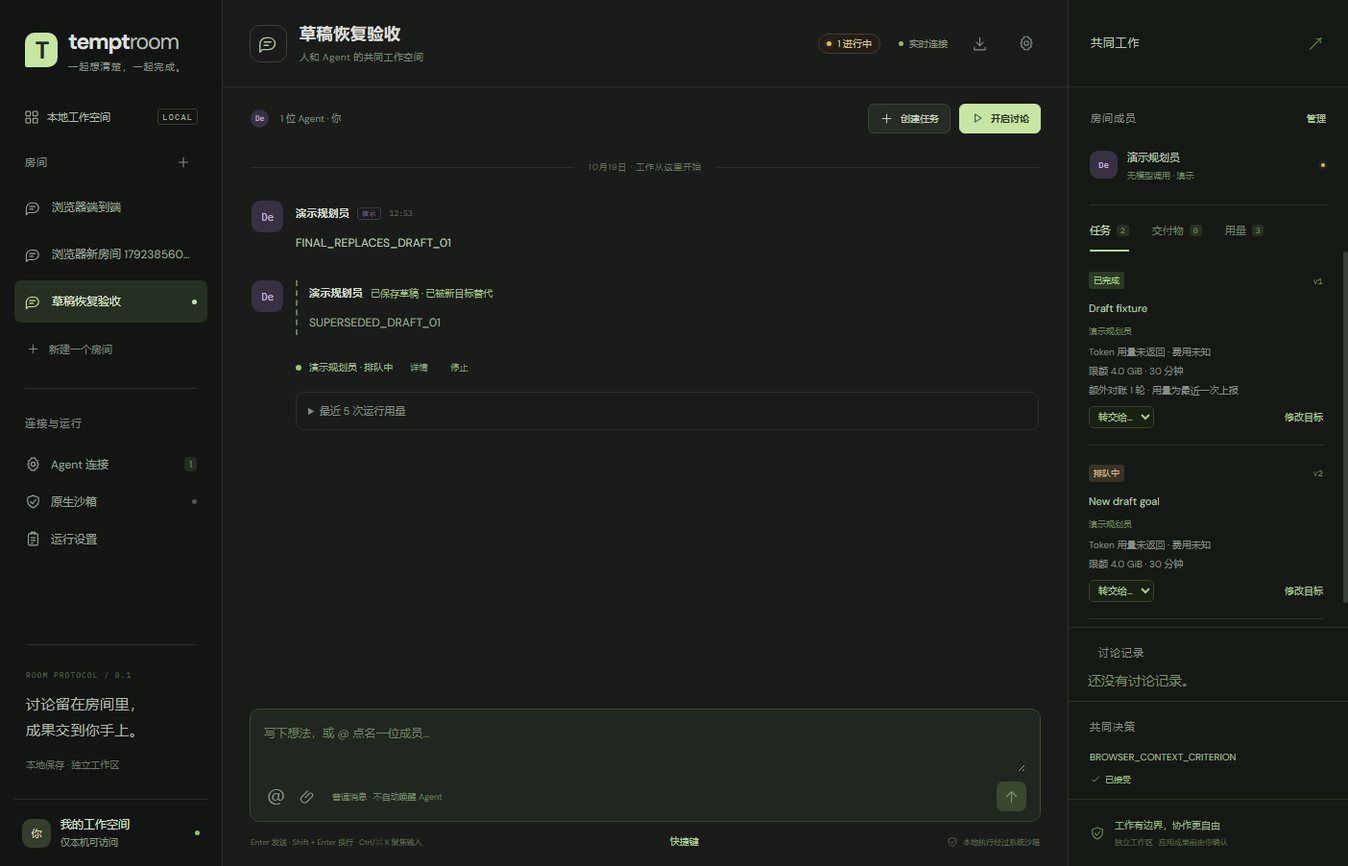
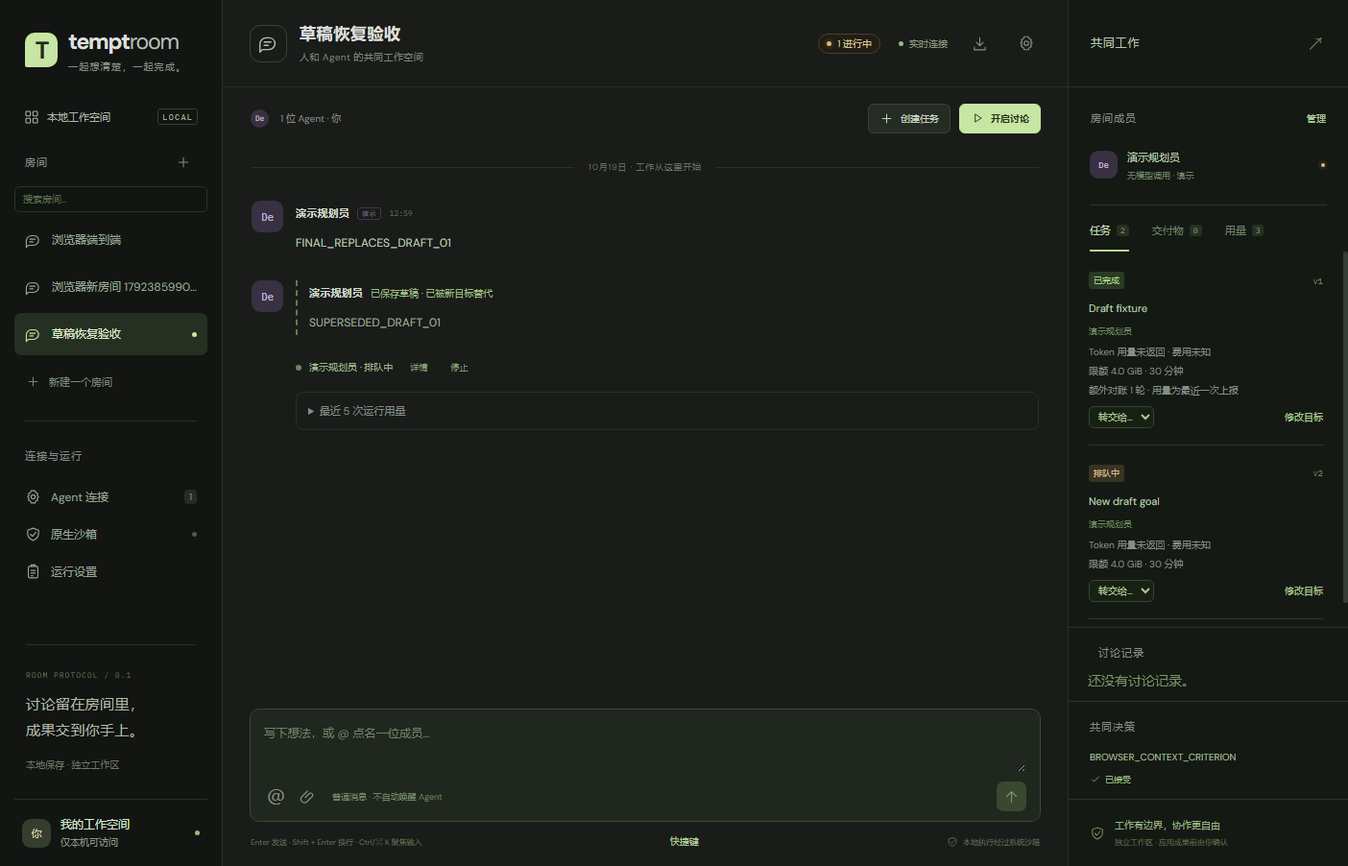
feat: add sidebar room search filter

Changed region(s): [[0.0, 0.2173, 0.1531, 0.6829]]

diff --git a/apps/web/src/main.tsx b/apps/web/src/main.tsx
@@ -43,6 +43,7 @@ function App(){
  const [runDetailId,setRunDetailId]=useState<string>();
  const [discussionDetailId,setDiscussionDetailId]=useState<string>();
  const [helpOpen,setHelpOpen]=useState(false);
+ const [roomQuery,setRoomQuery]=useState('');
  const [streaming,setStreaming]=useState<Record<string,DraftStream>>({}),[sandbox,setSandbox]=useState<Diagnostic>(),[probing,setProbing]=useState(false);
  const messagesEnd=useRef<HTMLDivElement>(null),fileInput=useRef<HTMLInputElement>(null),textarea=useRef<HTMLTextAreaElement>(null),generation=useRef(0),pendingSend=useRef<{body:string;id:string}|undefined>(undefined);
  const notify=useCallback((message:string)=>{setNotice(message);},[]);
@@ -65,6 +66,7 @@ function App(){
  const activeRuns=runs.filter(r=>!terminalStates.has(r.status)),discussion=snapshot?.discussions.find(d=>d.status==='active');
   const runDetail=runs.find(item=>item.id===runDetailId);
   const discussions=snapshot?.discussions??[],discussionDetail=discussions.find(item=>item.id===discussionDetailId);
+  const visibleRooms=rooms.filter(room=>room.name.toLowerCase().includes(roomQuery.trim().toLowerCase()));
   useEffect(()=>{if(!roomId)return;const url=new URL(location.href);url.searchParams.set('room',roomId);history.replaceState(null,'',url.toString());},[roomId]);
   useEffect(()=>{const prefix=activeRuns.length?'('+activeRuns.length+') ':'';document.title=snapshot?.room.name?(prefix+snapshot.room.name+' · Tempt Room'):'Tempt Room';},[snapshot?.room.name,activeRuns.length]);
  useEffect(()=>{const handler=(event:KeyboardEvent)=>{if((event.ctrlKey||event.metaKey)&&event.key.toLowerCase()==='k'){event.preventDefault();textarea.current?.focus();}if(event.key==='Escape')setShowMentions(false);if((event.ctrlKey||event.metaKey)&&event.key==='/'){event.preventDefault();setHelpOpen(true);}const target=event.target as HTMLElement|undefined;if(event.key==='?'&&!(target&&['INPUT','TEXTAREA','SELECT'].includes(target.tagName)))setHelpOpen(true);};window.addEventListener('keydown',handler);return()=>window.removeEventListener('keydown',handler);},[]);
@@ -86,8 +88,8 @@ function App(){
   <aside className="sidebar">
    <a className="brand" href="/" aria-label="Tempt Room"><span className="brand-mark">T</span><span>tempt<span className="brand-light">room</span><small>一起想清楚，一起完成。</small></span></a>
    <div className="workspace-label"><Icon name="grid" size={16}/><span>本地工作空间</span><span className="local-tag">LOCAL</span></div>
-   <div className="section-heading"><span>房间</span><button className="icon-button" aria-label="创建房间" onClick={()=>setDialog('room')}><Icon name="plus" size={16}/></button></div>
-   <nav className="room-list" aria-label="房间">{rooms.map(room=><button key={room.id} className={`room-link ${room.id===roomId?'selected':''}`} onClick={()=>setRoomId(room.id)}><Icon name="chat" size={17}/><span>{room.name}</span>{room.id===roomId&&<span className="room-indicator"/>}</button>)}</nav>
+   <div className="section-heading"><span>房间</span><button className="icon-button" aria-label="创建房间" onClick={()=>setDialog('room')}><Icon name="plus" size={16}/></button></div><input className="room-search" value={roomQuery} onChange={event=>setRoomQuery(event.target.value)} placeholder="搜索房间…" aria-label="搜索房间"/>
+   <nav className="room-list" aria-label="房间">{visibleRooms.map(room=><button key={room.id} className={`room-link ${room.id===roomId?'selected':''}`} onClick={()=>setRoomId(room.id)}><Icon name="chat" size={17}/><span>{room.name}</span>{room.id===roomId&&<span className="room-indicator"/>}</button>)}{!visibleRooms.length&&<p className="room-search-empty">没有匹配的房间</p>}</nav>
    <button className="new-room" onClick={()=>setDialog('room')}><Icon name="plus" size={15}/> 新建一个房间</button>
    <div className="sidebar-divider"/>
    <div className="section-heading"><span>连接与运行</span></div>

diff --git a/scripts/browser-e2e.ts b/scripts/browser-e2e.ts
@@ -188,6 +188,13 @@ try {
     await evaluate("(()=>{const button=[...document.querySelectorAll('dialog.modal button')].find(item=>(item.textContent??'').trim()==='知道了');if(button)button.click();return !!button;})()");
     await waitFor('关闭快捷键帮助', async () => !(await bodyText()).includes('打开本帮助'), 10000);
     step('shortcut-help');
+    const searchSet = await evaluate("(()=>{const input=document.querySelector('.room-search');if(!input)return false;const setter=Object.getOwnPropertyDescriptor(HTMLInputElement.prototype,'value').set;setter.call(input,'NoSuchRoomQuery');input.dispatchEvent(new Event('input',{bubbles:true}));return true;})()");
+    if (!searchSet) fail('找不到房间搜索框');
+    await waitFor('房间搜索过滤', async () => { const count = await evaluate("document.querySelectorAll('.room-list .room-link').length"); return count === 0 && (await bodyText()).includes('没有匹配的房间'); }, 10000);
+    await evaluate("(()=>{const input=document.querySelector('.room-search');if(!input)return false;const setter=Object.getOwnPropertyDescriptor(HTMLInputElement.prototype,'value').set;setter.call(input,'');input.dispatchEvent(new Event('input',{bubbles:true}));return true;})()");
+    await waitFor('房间搜索清空', async () => { const count = await evaluate("document.querySelectorAll('.room-list .room-link').length"); return count > 0; }, 10000);
+    step('room-search');
+
 
 
     const titleBefore = await waitFor('房间标题', async () => { const title = String(await evaluate("document.querySelector('.room-title h1')?.textContent?.trim() ?? ''")); return title && title !== '正在打开房间' ? title : undefined; }, 15000);

diff --git a/apps/web/src/style.css b/apps/web/src/style.css
@@ -98,3 +98,8 @@
 .shortcut-list>div{display:flex;align-items:center;gap:8px;font-size:11px;color:#c1d0b5}
 .shortcut-list kbd{font-family:'IBM Plex Mono',Consolas,monospace;font-size:9px;border:1px solid #3d4a35;border-radius:4px;padding:3px 6px;background:#1a2117;color:#d5e4c9;box-shadow:0 1px 0 #0e120c}
 .shortcut-list span{color:#93a487}
+/* Sidebar room search. */
+.room-search{width:100%;margin:0 0 7px;background:#101510;border:1px solid #2b3428;border-radius:5px;padding:6px 8px;color:#c2d0b8;font-size:10px}
+.room-search::placeholder{color:#5d6c54}
+.room-search:focus{border-color:#52683f;outline:none}
+.room-search-empty{font-size:9px;color:#6e7c64;padding:6px 8px}

diff --git a/docs/ACCEPTANCE.md b/docs/ACCEPTANCE.md
@@ -123,11 +123,12 @@ T03 已完成重启后的真实复测：当前 Codex 会话以外部成员接入
 - 新增讨论 quorum：`discussion.start` 可选每轮最少成功响应（默认全员）；达到 quorum 即推进并记录缺席成员，未达则停止；UI 显示 Quorum/缺席并可在创建表单设置。`tests/discussion-quorum.test.ts` 2 项，测试总数 200/200。
 - 新增受限沙箱聊天自动重试：默认关闭，仅对无任务/无讨论、无工具操作与 artifact、timeout/network/provider 失败的 sandbox chat 运行重试，最多 3 次；`tests/auto-retry.test.ts` 1 项，测试总数 220/220。
 - 新增单成员每分钟运行上限：`maxAgentRunsPerMinute`（默认 30）入队前限流，超限 429 原子失败；`tests/rate-limit.test.ts` 1 项，测试总数 220/220。
+- 新增侧边栏房间搜索：按名称即时过滤并在无匹配时显示空态；浏览器 E2E `room-search`，全量 43/43。
 - 新增快捷键帮助弹窗（Ctrl/⌘+/、?、底部按钮打开），列出 Enter/Shift+Enter/Ctrl+K/Esc 等操作并说明不绕过权限/预算；浏览器 E2E `shortcut-help`，全量 42/42。
 - 新增双连接并发写入门禁：两个 SQLite 连接交错写入 40 条消息，验证快照一致、事件连续、任意水位重建字节一致；`tests/concurrency-conflict.test.ts` 1 项，测试总数 218/218。
 - 新增 Agent 调度权重：`AgentDescriptor.schedulerWeight`（0.1–10，默认 1）参与加权公平排序，Agent 设置表单可配置；`tests/fair-scheduler.test.ts` 3 项，测试总数 217/217。
 - 新增种子化随机 seq 故障注入：40 条随机命令后在 30 个水位重建，投影字节与房间游标保持一致；`npm run test:faults` 已加入 CI 配置，测试总数 216/216。
-- 新增公平性压力测试与移动端布局：20 Agent × 5 运行的公平调度 100 次无饥饿；浏览器 E2E 390×844 验证详情面板隐藏、输入框可用且无水平溢出。截图 `docs/screenshots/ui-mobile-20261019.png`，浏览器 E2E 42/42，测试总数 215/215。
+- 新增公平性压力测试与移动端布局：20 Agent × 5 运行的公平调度 100 次无饥饿；浏览器 E2E 390×844 验证详情面板隐藏、输入框可用且无水平溢出。截图 `docs/screenshots/ui-mobile-20261019.png`，浏览器 E2E 43/43，测试总数 215/215。
 - 新增上下文序列化测试与讨论历史：`formatContextMessage` 统一 trust/截断并覆盖注入文本作为数据；右侧「讨论记录」可打开只读详情（关联运行与发言）。浏览器 E2E `discussion-history`，全量 40/40，测试总数 214/214。
 - 新增失败分类与可解释建议：`classifyFailure` 区分预算/超时/上下文/认证/网络/依赖/工具/提供方等类别，在错误卡片与运行详情显示标签、是否可重试和下一步建议；`tests/failure.test.ts` 1 项，测试总数 212/212。
 - 新增键盘快捷入口（Ctrl/⌘+K 聚焦输入、Escape 关闭提及菜单）与超时草稿降级测试：超时前保存的 partial 不被发布为最终回复；`tests/partial-timeout.test.ts` 1 项，浏览器 E2E 39/39，测试总数 211/211。
@@ -138,7 +139,7 @@ T03 已完成重启后的真实复测：当前 Codex 会话以外部成员接入
 - 新增房间/成员待处理运行上限：设置新增 `maxQueuedRunsPerAgent`（默认 5）与 `maxQueuedRunsPerRoom`（默认 20）；入队前超限返回 429 并回滚整个命令，不留下半个运行。`tests/queue-limits.test.ts` 2 项，测试总数 202/202。
 - 新增运行详情弹窗：从进行中运行、错误卡片或用量历史打开，显示时间、任务/版本、上下文水位、提示词、错误原文、限额/预算和 Room 工具操作；支持停止与显式重试。
 - 新增显式失败重试：owner 可对 failed/canceled/interrupted/unknown 运行执行 `run.retry`，创建新运行且不覆盖原记录；拒绝外部会话、活动运行、任务改版与不可重试终态，任务重试复用同一 task version。新增 `tests/run-retry.test.ts` 2 项，运行错误卡片提供「重试」按钮。
-- UI/UX：运行用量改为紧凑格式（不再重复三个未知），任务接力下拉改为紧凑深色样式并补 `aria-label`，房间头部显示“N 进行中”，提高 owner 页脚对比度；当前房间 id 写入 URL 查询参数并同步浏览器标签标题，刷新后保持所选房间；新增右侧「用量」标签，按房间/Agent 汇总 Token、费用估值与已上报/未知运行，未知不按 0 计入。浏览器 E2E 新增 `room-url-and-title-persistence`、`usage-tab`、`run-detail-modal`，全量 42/42 通过，截图 `docs/screenshots/ui-polish-20261019.png`。
+- UI/UX：运行用量改为紧凑格式（不再重复三个未知），任务接力下拉改为紧凑深色样式并补 `aria-label`，房间头部显示“N 进行中”，提高 owner 页脚对比度；当前房间 id 写入 URL 查询参数并同步浏览器标签标题，刷新后保持所选房间；新增右侧「用量」标签，按房间/Agent 汇总 Token、费用估值与已上报/未知运行，未知不按 0 计入。浏览器 E2E 新增 `room-url-and-title-persistence`、`usage-tab`、`run-detail-modal`，全量 43/43 通过，截图 `docs/screenshots/ui-polish-20261019.png`。
 - 新增 `.github/workflows/ci.yml`（Windows runner：typecheck、密钥扫描、单元测试、replay 契约、生产构建）；仅完成本地配置，尚未在远端 CI 实际执行。
 - 计划实施记录已更新：`docs/AGENT-PARALLEL-PROGRESS.md` 增加第四批 baseSeq 上下文对账与第五批审计/UI 记录，并更新剩余工作清单；`PROTOCOL.md`/`RELEASE-NOTES.md` 同步 v6 与已实现/未实现边界。
 

diff --git a/docs/AGENT-PARALLEL-PROGRESS.md b/docs/AGENT-PARALLEL-PROGRESS.md
@@ -97,7 +97,7 @@
 ## 增量：审计导出与 UI 体验
 
 - 新增 owner-only `GET /api/rooms/:id/audit/export`：按事件原样输出 NDJSON（事件 id、seq、type、actor、payload 等），并设置 `application/x-ndjson` 与附件下载名；房间头部新增「导出审计日志」按钮。测试覆盖 owner 下载、未认证 401、NDJSON 可解析与事件字段；自动测试 202/202。
-- UI 体验：运行用量改为紧凑的两行（用量未返回时不再重复三个“未知”），任务卡操作下拉改为紧凑样式并补 aria-label，房间头部显示“N 进行中”，owner 页脚提高对比度；新增“当前房间 id 写入 URL 查询参数 + 浏览器标签标题显示房间名”的持久化，刷新后保持所选房间。浏览器 E2E 新增 `room-url-and-title-persistence`、`usage-tab`、`run-detail-modal`、`composer-keyboard-shortcut` 与 `mobile-layout` 步骤，全量 42/42 通过。
+- UI 体验：运行用量改为紧凑的两行（用量未返回时不再重复三个“未知”），任务卡操作下拉改为紧凑样式并补 aria-label，房间头部显示“N 进行中”，owner 页脚提高对比度；新增“当前房间 id 写入 URL 查询参数 + 浏览器标签标题显示房间名”的持久化，刷新后保持所选房间。浏览器 E2E 新增 `room-url-and-title-persistence`、`usage-tab`、`run-detail-modal`、`composer-keyboard-shortcut` 与 `mobile-layout` 步骤，全量 43/43 通过。
 - 新增右侧「用量」标签：按房间汇总输入/输出 Token、费用估值、已上报/未知运行数，并按 Agent 列出用量；未知提供方不会被当作 0。该面板不强制预算，只提供可解释的成本可见性。
 - 新增「运行详情」弹窗：从进行中运行、错误卡片或用量历史打开，展示时间、任务/版本、上下文水位、提示词、错误原文、限额/预算与 Room 工具操作记录；支持停止和显式重试。
 - 仓库与 CI：`git init -b main` 首个提交 `ced6da3` 纳入全部基线；新增 `.github/workflows/ci.yml`（typecheck、密钥扫描、单元测试、replay 契约、production build，Windows runner）；本地未实际触发 GitHub Actions。
@@ -180,7 +180,7 @@
 ## 增量：公平性压力测试与移动端布局
 
 - 新增 20 Agent × 5 运行的无模型公平性压力测试：使用公平排序连续调度 100 次，所有 Agent 均被服务 5 次，无饥饿；`npm test` **220/220**。
-- 浏览器 E2E 新增 390×844 移动端步骤：右侧详情面板隐藏、消息输入框可见、无水平溢出；移动端截图 `docs/screenshots/ui-mobile-20261019.png`，全量 **42/42**。
+- 浏览器 E2E 新增 390×844 移动端步骤：右侧详情面板隐藏、消息输入框可见、无水平溢出；移动端截图 `docs/screenshots/ui-mobile-20261019.png`，全量 **43/43**。
 
 ## 增量：随机 seq 故障注入与 CI 门禁
 
@@ -192,7 +192,7 @@
 
 - `AgentDescriptor.schedulerWeight`（0.1–10，默认 1）加入协议与 Agent 设置表单；权重越高，最近服务虚拟时间越小，越容易获得下一次调度机会。
 - `fairOrder(runs, servedAt, weights)` 按 `servedAt / weight` 排序；未配置权重时保持原有行为。Worker 每 tick 读取本地 Agent 权重并传入。
-- 测试：`tests/fair-scheduler.test.ts` 新增静态权重偏好与 12 次调度中高权重获得更多机会的验证；`npm test` **220/220**，浏览器 E2E 42/42。
+- 测试：`tests/fair-scheduler.test.ts` 新增静态权重偏好与 12 次调度中高权重获得更多机会的验证；`npm test` **220/220**，浏览器 E2E 43/43。
 
 ## 增量：双连接并发写入门禁
 
@@ -209,7 +209,7 @@
 ## 增量：快捷键帮助面板
 
 - 新增快捷键帮助弹窗，可在输入框底部「快捷键」按钮、`Ctrl/⌘ + /` 或非输入状态按 `?` 打开；列出 Enter、Shift+Enter、Ctrl/⌘+K、帮助、Esc 等操作，并说明不会绕过权限/预算/确认流程。
-- 浏览器 E2E 新增 `shortcut-help` 步骤；全量 **42/42**。
+- 浏览器 E2E 新增 `shortcut-help` 步骤；全量 **43/43**。
 
 ## 增量：受限沙箱聊天自动重试
 
@@ -217,6 +217,11 @@
 - 仅对同时满足以下条件的失败运行自动重试：chat、无 task/discussion、sandbox 执行、无已记录 Room 工具操作、无已产出 artifact、失败类别为 timeout/network/provider；任务、host、unknown/interrupted、预算/上下文/工具失败一律不自动重试。
 - 新运行带 `autoRetryOf` / `autoRetryCount` 追踪字段，并写入审计事件；队列/速率/预算限制仍会阻止自动重试。
 - UI 设置新增自动重试开关与次数；测试 `tests/auto-retry.test.ts` 验证一次自动重试后成功；`npm test` **220/220**。
+
+## 增量：侧边栏房间搜索
+
+- 侧边栏房间列表新增即时搜索框，按房间名称过滤，无匹配时显示空态；不改变当前房间状态或持久数据。
+- 浏览器 E2E 新增 `room-search` 步骤（无匹配空态 + 清空恢复），全量 **43/43**。
 
 ## 原计划逐项剩余工作
 

diff --git a/docs/RELEASE-READINESS.md b/docs/RELEASE-READINESS.md
@@ -1,16 +1,16 @@
 # Tempt Room 发布就绪摘要
 
-> 自动生成于 2026-10-19T04:55:46.328Z。仅汇总本机已有报告，不触发任何模型请求。
+> 自动生成于 2026-10-19T05:01:57.359Z。仅汇总本机已有报告，不触发任何模型请求。
 
 ## 门禁结果
 
 | 门禁 | 结果 | 说明 | 证据 |
 | --- | --- | --- | --- |
-| 预发布检查（preflight） | 通过 | typecheck→test→build→SDK→浏览器→生产：通过（9/9 步） | `.state/preflight/run-KFyyva/report.json` |
-| 浏览器端到端（browser-e2e） | 通过 | 真实无头 Edge/Chrome：通过（42/42 步） | `.state/browser-e2e/run-xZPdA0/report.json` |
-| 生产构建启动（production-smoke） | 通过 | dist 产物 + 隔离数据目录：通过（10/10 步） | `.state/production-smoke/run-0IliQ3/report.json` |
+| 预发布检查（preflight） | 通过 | typecheck→test→build→SDK→浏览器→生产：通过（9/9 步） | `.state/preflight/run-a3p9kf/report.json` |
+| 浏览器端到端（browser-e2e） | 通过 | 真实无头 Edge/Chrome：通过（43/43 步） | `.state/browser-e2e/run-PtAtQ6/report.json` |
+| 生产构建启动（production-smoke） | 通过 | dist 产物 + 隔离数据目录：通过（10/10 步） | `.state/production-smoke/run-KL9g3H/report.json` |
 | Windows 原生沙箱 | 通过 | 23/23 项通过 | `.state/diagnostics/sandbox.json` |
-| 仓库密钥扫描 | 通过 | 源码/文档未发现疑似 API Key 或房间令牌（2026-10-19T04:52:26.010Z） | `.state/secret-scan/latest.json` |
+| 仓库密钥扫描 | 通过 | 源码/文档未发现疑似 API Key 或房间令牌（2026-10-19T04:58:48.373Z） | `.state/secret-scan/latest.json` |
 | Claude 沙箱真实轮次（单项） | 通过 | paid-one-turn · AppContainer + 原生会话 + 回复通过 | `.state/claude-smoke/run-WWcVPe/report.json` |
 | 沙箱真实 Agent 成果应用（Claude） | 通过 | 沙箱文件差异交付物已应用到原项目并校验内容 | `.state/sandbox-artifact-smoke/run-GMpmfD/report.json` |
 | 沙箱两 Agent 任务接力（Claude + DeepSeek） | 通过 | Claude v1 完成并应用成果，交接 DeepSeek v2 完成，两条运行均带 AppContainer 证明 | `.state/sandbox-handoff-smoke/run-dTKJB6/report.json` |
@@ -24,7 +24,7 @@
 | 账号登录 host 命令/测试执行（单项） | 通过 | 真实运行 npm test 并保存输出后完成任务 | `.state/host-commands-smoke/run-yXrXVQ/report.json` |
 | 账号登录 host 取消运行（单项） | 通过 | 长命令运行被取消并进入 canceled 终态 | `.state/host-cancel-smoke/run-5N1tWY/report.json` |
 | 账号登录 host 任务接力（两 Agent） | 通过 | Claude v1 完成后交接 DeepSeek v2 并完成 | `.state/host-handoff-smoke/run-qhwnpd/report.json` |
-| Windows 连接器进程树 | 通过 | 9/9 项通过 | `.state/connector-probes/run-wesrkg/report.json` |
+| Windows 连接器进程树 | 通过 | 9/9 项通过 | `.state/connector-probes/run-hQ4p4y/report.json` |
 | 原生 Agent 协议预检 | 通过 | codex:通过 / claude:通过 / deepseek:通过 | `.state/native-pipecompat-20261017/diagnostics/agent-protocols.json` |
 | 完整验收前置（--check） | 通过 | ready-for-paid-tests（4/4 步，agents=3） | `.state/native-pipecompat-20261017/acceptance-tests/suite-wdp7HI/acceptance.json` |
 | 真实 Agent 场景（沙箱 + 显式密钥）（可选） | 可选，未执行 | 可选档：本机使用账号登录，已由单 Agent / 外部 MCP / 三 Agent host 门禁覆盖；如有 API Key 可运行 --allow-paid | `.state/native-pipecompat-20261017/acceptance-tests/suite-Y21n0G/acceptance.json` |

diff --git a/docs/VERIFICATION-MATRIX.md b/docs/VERIFICATION-MATRIX.md
@@ -26,15 +26,16 @@
 | 受限沙箱聊天自动重试 | PASS | `npm test`（`tests/auto-retry.test.ts`） | 测试输出 |
 | 移动端布局（390×844） | PASS | 浏览器 E2E `mobile-layout` | `.state/browser-e2e/`、`docs/screenshots/ui-mobile-20261019.png` |
 | 快捷键帮助面板 | PASS | 浏览器 E2E `shortcut-help` | 上述浏览器报告 |
+| 侧边栏房间搜索 | PASS | 浏览器 E2E `room-search` | 上述浏览器报告 |
 | 讨论历史与只读详情 | PASS | 浏览器 E2E `discussion-history` | 上述浏览器报告 |
 | 运行详情与工具操作可见性 | PASS | 浏览器 E2E `run-detail-modal` 步骤 | 上述浏览器报告 |
 | 事件回放 / fencing / partial / 上下文契约 | PASS（63/63） | `npm run test:replay` | 测试输出 |
 | 房间事件审计导出（NDJSON） | PASS | `npm test`（`tests/audit-export.test.ts`） | 测试输出 |
 | 仓库密钥扫描 | PASS（0 finding） | `npm run check:secrets` | `.state/secret-scan/latest.json` |
-| 预发布全链路 | PASS（9/9） | `npm run test:preflight -- --with-native` | `.state/preflight/run-KFyyva/report.json` |
-| 浏览器端到端 / URL 与标题恢复 / 草稿与对账 UI / 用量看板 | PASS（42/42） | `npm run test:browser` | `.state/browser-e2e/run-xZPdA0/report.json`、`docs/screenshots/ui-polish-20261019.png` |
+| 预发布全链路 | PASS（9/9） | `npm run test:preflight -- --with-native` | `.state/preflight/run-a3p9kf/report.json` |
+| 浏览器端到端 / URL 与标题恢复 / 草稿与对账 UI / 用量看板 | PASS（43/43） | `npm run test:browser` | `.state/browser-e2e/run-PtAtQ6/report.json`、`docs/screenshots/ui-polish-20261019.png` |
 | 房间用量看板（Token / 费用估值 / 未知用量） | PASS | 浏览器 E2E `usage-tab` 步骤 | 上述报告 |
-| 生产构建 + 重启恢复 + Cookie 保持 | PASS（10/10） | `npm run test:production` | `.state/production-smoke/run-0IliQ3/report.json` |
+| 生产构建 + 重启恢复 + Cookie 保持 | PASS（10/10） | `npm run test:production` | `.state/production-smoke/run-KL9g3H/report.json` |
 | Windows 原生沙箱探测 | PASS（23/23） | `npm run test:sandbox` | `.state/diagnostics/sandbox.json` |
 | 连接器进程树 | PASS（9/9） | `npm run test:connectors` | `.state/connector-probes/` |
 | 原生 Agent 协议预检 | PASS（codex/claude/deepseek） | `npm run test:agent-protocols -- --check` | `.state/native-pipecompat-20261017/diagnostics/agent-protocols.json` |

diff --git a/docs/RELEASE-NOTES.md b/docs/RELEASE-NOTES.md
@@ -57,9 +57,9 @@ npm run open -- --print    # 只输出当前启动地址
 
 必需门禁（`npm run report:readiness` 退出码 0）：
 
-- preflight 9/9（含仓库密钥扫描）、单元/契约测试 220/220、浏览器 E2E 42/42、生产冒烟 10/10
+- preflight 9/9（含仓库密钥扫描）、单元/契约测试 220/220、浏览器 E2E 43/43、生产冒烟 10/10
 - 原生沙箱 23/23、连接器 9/9、Agent 协议预检
-- 房间审计导出、房间 URL/标签页标题恢复、用量看板、运行详情与工具操作、运行级 Token/费用硬预算、显式失败重试、讨论 quorum/absent/late、房间/成员待处理运行上限、EWMA 自适应超时、最近服务公平排序、消息来源信任级、房间累计预算熔断、超时草稿降级、失败分类建议、键盘快捷入口、讨论历史详情、注入数据测试、公平性压力、移动端布局、随机 seq 故障注入、Agent 权重调度、单成员运行配额、受限自动重试、双连接并发写入、快捷键帮助、事件/上下文契约（`test:replay` 63/63）
+- 房间审计导出、房间 URL/标签页标题恢复、用量看板、运行详情与工具操作、运行级 Token/费用硬预算、显式失败重试、讨论 quorum/absent/late、房间/成员待处理运行上限、EWMA 自适应超时、最近服务公平排序、消息来源信任级、房间累计预算熔断、超时草稿降级、失败分类建议、键盘快捷入口、讨论历史详情、注入数据测试、公平性压力、移动端布局、随机 seq 故障注入、Agent 权重调度、单成员运行配额、受限自动重试、双连接并发写入、快捷键帮助、房间搜索、事件/上下文契约（`test:replay` 63/63）
 - Claude 沙箱单项真实轮次、沙箱真实 Agent 成果应用、沙箱两 Agent 任务接力（Claude + DeepSeek）
 - Codex / DeepSeek 本机直连单项真实轮次
 - 外部 Claude Code / Codex 令牌巡检与实际房间发言
